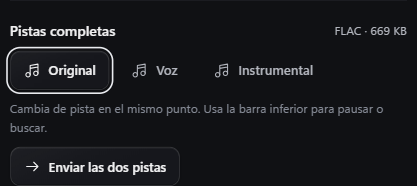
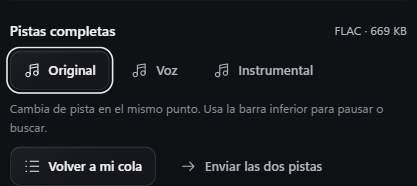
Keep queue during stem comparison

diff --git a/src/audio-player.ts b/src/audio-player.ts
@@ -3,7 +3,7 @@ import { detailsFor } from "./library-features";
 import type { AudioPlaylist, LocalTrack } from "./library-types";
 import { createMiniPlayer, hasPlayerArtwork, playerArtist } from "./mini-player";
 import type { createSceneControls } from "./music-scene-controls";
-import { audiobookResumePosition, chapterAt, isPlayable, playbackRates, readPlayback, resumePosition, savePlayback } from "./playback-preferences";
+import { audiobookResumePosition, chapterAt, isPlayable, playbackRates, readPlayback, resumePosition, savePlayback, type PlaybackQueue } from "./playback-preferences";
 import { connectPlaybackSignal } from "./playback-signal";
 import { createPlaybackStage, type StageState } from "./playback-stage";
 import { durationLabel } from "./presentation";
@@ -36,6 +36,15 @@ interface Hooks {
   t: Copy;
 }
 
+interface Comparison {
+  queue: PlaybackQueue | null;
+  time: number;
+  playing: boolean;
+  sleep: string;
+  sleepUntil: number;
+  stopAt: number;
+}
+
 export function createAudioPlayer(hooks: Hooks) {
   const { t } = hooks;
   const stored = readPlayback();
@@ -61,6 +70,7 @@ export function createAudioPlayer(hooks: Hooks) {
   let order: number[] = [];
   let cursor = -1;
   let resumeAudioId: string | undefined;
+  let comparison: Comparison | undefined;
   let expectedSource = "";
   let audioSelection: number | null = null;
   let audioChange: { controller: AbortController; play: boolean } | undefined;
@@ -111,7 +121,11 @@ export function createAudioPlayer(hooks: Hooks) {
   }
 
   function saveSession() {
-    savePlayback(preferences, cursor >= 0 ? { tracks, order, cursor, resumeAudioId } : null);
+    savePlayback(preferences, comparison ? comparison.queue : currentQueue());
+  }
+
+  function currentQueue(): PlaybackQueue | null {
+    return cursor >= 0 ? { tracks, order, cursor, resumeAudioId } : null;
   }
 
   function showScenes() {
@@ -290,7 +304,7 @@ export function createAudioPlayer(hooks: Hooks) {
 
   function persist() {
     const item = current();
-    if (!media || !item || !matchesSource() || media.readyState === 0 || resumeChoice || pendingSeek !== null || !Number.isFinite(media.currentTime)) return;
+    if (comparison || !media || !item || !matchesSource() || media.readyState === 0 || resumeChoice || pendingSeek !== null || !Number.isFinite(media.currentTime)) return;
     const position = !media.ended ? media.currentTime
       : isAudiobook(item) ? item.duration ?? media.currentTime : 0;
     const details = detailsFor(item);
@@ -679,6 +693,7 @@ export function createAudioPlayer(hooks: Hooks) {
     const same = currentId() === item.id && Boolean(expectedSource) && !issue;
     trackWheel?.dismiss();
     persist();
+    comparison = undefined;
     tracks = ids.filter(value => isPlayable(hooks.item(value))).slice(0, 2000);
     resumeAudioId = resumeShortAudio && item.kind === "audio" ? item.id : undefined;
     cursor = -1;
@@ -695,7 +710,9 @@ export function createAudioPlayer(hooks: Hooks) {
   }
 
   function add(id: string) {
-    if (!isPlayable(hooks.item(id)) || tracks.length >= 2000) return;
+    if (!isPlayable(hooks.item(id))) return;
+    restoreComparison();
+    if (tracks.length >= 2000) return;
     trackWheel?.dismiss();
     tracks.push(id);
     order.push(tracks.length - 1);
@@ -704,6 +721,7 @@ export function createAudioPlayer(hooks: Hooks) {
   }
 
   function playNext(ids: Iterable<string>) {
+    restoreComparison();
     const playing = current();
     if (playing && isAudiobook(playing)) return 0;
     const upcoming = order.slice(cursor + 1);
@@ -753,6 +771,7 @@ export function createAudioPlayer(hooks: Hooks) {
   }
 
   function close() {
+    if (comparison) { restoreComparison(false); return; }
     cancelAudioChange();
     persist();
     media?.pause();
@@ -965,9 +984,11 @@ export function createAudioPlayer(hooks: Hooks) {
   function playAt(id: string, time: number, resumeShortAudio = false): boolean {
     const item = hooks.item(id);
     if (!isPlayable(item)) return false;
+    const comparing = Boolean(comparison);
     const resumeId = resumeShortAudio && item.kind === "audio" ? id : undefined;
-    if (id !== currentId() || issue) {
+    if (id !== currentId() || issue || comparing) {
       persist();
+      comparison = undefined;
       tracks = [id]; order = [0]; cursor = -1; resumeAudioId = resumeId;
       activate(0, false, false);
     } else if (item.kind === "video") showStage();
@@ -993,7 +1014,15 @@ export function createAudioPlayer(hooks: Hooks) {
     const switching = group.includes(active) && !issue;
     const position = switching ? pendingSeek ?? media.currentTime : 0;
     const autoplay = !switching || !media.paused;
-    persist();
+    if (!comparison) {
+      persist();
+      comparison = {
+        queue: currentQueue(), time: pendingSeek ?? (resumeChoice || media.currentTime),
+        playing: wheelPlaying(), sleep, sleepUntil, stopAt,
+      };
+      clearTimer();
+      sleep = "off";
+    }
     tracks = [id];
     order = [0];
     cursor = -1;
@@ -1001,6 +1030,36 @@ export function createAudioPlayer(hooks: Hooks) {
     activate(0, false, false, false);
     seek(position);
     if (autoplay) void playMedia();
+  }
+
+  function restoreComparison(resume = true) {
+    const previous = comparison;
+    if (!previous) return;
+    comparison = undefined;
+    clearTimer();
+    sleep = "off";
+    const queue = previous.queue;
+    if (!queue) { close(); return; }
+    const available = (index: number) => isPlayable(hooks.item(queue.tracks[index]));
+    const sameTrack = available(queue.order[queue.cursor]);
+    const target = sameTrack ? queue.cursor : queue.order.findIndex(available);
+    if (target < 0) { close(); return; }
+    tracks = queue.tracks;
+    order = queue.order;
+    cursor = -1;
+    resumeAudioId = queue.resumeAudioId;
+    activate(target, false, false, false);
+    if (!sameTrack) return;
+    seek(previous.time);
+    const expired = previous.sleepUntil > 0 && previous.sleepUntil <= Date.now();
+    if (!expired && previous.sleep !== "off") {
+      sleep = previous.sleep;
+      stopAt = previous.stopAt;
+      sleepUntil = previous.sleepUntil;
+      if (sleepUntil) timer = setTimeout(sleepNow, sleepUntil - Date.now());
+      render();
+    }
+    if (resume && previous.playing && !expired) void playMedia();
   }
 
   function shuffleUpcoming() {
@@ -1102,7 +1161,7 @@ export function createAudioPlayer(hooks: Hooks) {
     return true;
   }
 
-  return { mount, render, restore, play, playAt, playChapter, compareTrack, pause: () => media?.pause(), add, playNext, remove, input, click, key, current, nextEntries, seek, persist, detachMini, openFloatingMini,
+  return { mount, render, restore, play, playAt, playChapter, compareTrack, restoreComparison, comparison: () => comparison?.queue ? "queue" : comparison ? "empty" : undefined, pause: () => media?.pause(), add, playNext, remove, input, click, key, current, nextEntries, seek, persist, detachMini, openFloatingMini,
     nativeMiniRestored: (dock: boolean) => { setDetached(false); if (dock) dockMini(); },
     syncDesktopWheel, wheelAction, isExpanded: () => expanded, isDetached: () => detached,
     timeFor: (id: string) => id === currentId() && matchesSource() && media?.readyState ? media.currentTime : undefined,

diff --git a/src/stems-ui.ts b/src/stems-ui.ts
@@ -13,6 +13,8 @@ interface Hooks {
   notify(message: string): void;
   components(): void;
   compare(id: string, group: readonly string[]): void;
+  comparison(): "queue" | "empty" | undefined;
+  restoreComparison(): void;
   playingId(): string | undefined;
   pausePlayback(): void;
   share(ids: string[]): void;
@@ -85,6 +87,7 @@ export function createStemsTool(hooks: Hooks) {
     const listen = (id: string, label: string) => action("stems-compare", label, "audio", current === id ? "secondary" : "quiet",
       `id="stems-listen-${h(id)}" data-id="${h(id)}" aria-pressed="${current === id}"`);
     const source = selected();
+    const comparison = hooks.comparison();
     const [original, vocals, instrumental] = labels();
     return `<section class="asset-review stems-output" aria-labelledby="stems-output-title">
       <div class="section-heading"><h3 id="stems-output-title">${t("Pistas completas", "Full-length stems")}</h3><span>FLAC · ${bytesLabel(files.reduce((total, { item }) => total + item.size, 0))}</span></div>
@@ -93,8 +96,12 @@ export function createStemsTool(hooks: Hooks) {
       </div>
       <p class="field-note">${t("Cambia de pista en el mismo punto. Usa la barra inferior para pausar o buscar.", "Switch tracks at the same position. Use the player below to pause or seek.")}</p>
       ${files.length === 1 ? `<p class="field-note">${t("Solo queda una pista disponible de esta exportación.", "One stem from this export is available.")}</p>` : ""}
-      <div class="button-group stems-tracks">${action("stems-share", files.length === 2 ? t("Enviar las dos pistas", "Send both stems")
-        : t("Enviar pista disponible", "Send available stem"), "arrow", "secondary")}</div>
+      <div class="button-group stems-tracks stems-result-actions">
+        ${comparison ? action("stems-restore", comparison === "queue" ? t("Volver a mi cola", "Return to my queue")
+          : t("Terminar comparación", "End comparison"), comparison === "queue" ? "list" : "close", "secondary") : ""}
+        ${action("stems-share", files.length === 2 ? t("Enviar las dos pistas", "Send both stems")
+          : t("Enviar pista disponible", "Send available stem"), "arrow", comparison ? "quiet" : "secondary")}
+      </div>
     </section>`;
   }
 
@@ -169,6 +176,7 @@ export function createStemsTool(hooks: Hooks) {
     if (requestId) void hooks.command("cancel_file_source_inspection", { requestId }).catch(() => {});
     busy = false; requestId = 0; error = "";
     discard();
+    hooks.restoreComparison();
   }
 
   function trackButtons() {
@@ -305,6 +313,11 @@ export function createStemsTool(hooks: Hooks) {
         }
         return true;
       }
+      case "stems-restore":
+        stop();
+        hooks.restoreComparison();
+        document.getElementById(`stems-listen-${libraryId}`)?.focus({ preventScroll: true });
+        return true;
       case "stems-share": {
         const ids = publishedSet()?.map(({ item }) => item.id);
         if (ids?.length) hooks.share(ids);
@@ -330,6 +343,7 @@ export function createStemsTool(hooks: Hooks) {
       if (!preview && !error) return true;
     } else if (target.id === "stems-source" && target instanceof HTMLSelectElement) {
       libraryId = target.value; start = 0;
+      hooks.restoreComparison();
     } else return false;
     discard(); error = ""; hooks.render();
     return true;

diff --git a/src/main.ts b/src/main.ts
@@ -128,7 +128,8 @@ const stickerTool=createStickerTool({command,snapshot:()=>snapshot,refresh,rende
 const upscaleTool=createUpscaleTool({command,snapshot:()=>snapshot,refresh,render:renderCurrent,notify,t,components:()=>{preferences.section='engines';navigate('settings');}});
 const backgroundTool=createBackgroundTool({command,snapshot:()=>snapshot,refresh,render:renderCurrent,notify,t,components:()=>{preferences.section='engines';navigate('settings');}});
 const stemsTool=createStemsTool({command,snapshot:()=>snapshot,refresh,render:renderCurrent,notify,t,components:()=>{preferences.section='engines';navigate('settings');},
-  compare:(id,group)=>audioPlayer.compareTrack(id,group),playingId:()=>audioPlayer.current()?.id,pausePlayback:()=>audioPlayer.pause(),share:ids=>deviceShare.open({ids})});
+  compare:(id,group)=>audioPlayer.compareTrack(id,group),comparison:()=>audioPlayer.comparison(),restoreComparison:()=>audioPlayer.restoreComparison(),
+  playingId:()=>audioPlayer.current()?.id,pausePlayback:()=>audioPlayer.pause(),share:ids=>deviceShare.open({ids})});
 const translationTool=createTranslationTool({command,snapshot:()=>snapshot,refresh,render:renderCurrent,notify,t,
   openTool:mode=>openToolDestination(()=>openLocalTool(mode),"subtitles"),
   components:()=>{preferences.section='engines';navigate('settings');}});
@@ -781,6 +782,7 @@ async function handleAction(action: string, button: HTMLButtonElement): Promise<
   const id=button.dataset.id??"";
   if(action==='open-palette'){palette.open();return;}
   if(action==='tool-catalog-open'){
+    if(localToolModule==='stems')stemsTool.leave();
     showToolCatalog=true;toolCategory="";toolSearch='';renderCurrent();required('#main').scrollTop=0;
     document.getElementById('tool-search')?.focus();return;
   }

diff --git a/src/stems.css b/src/stems.css
@@ -34,3 +34,4 @@
 .stems-output { display: grid; gap: 10px; margin-top: 16px; }
 .stems-output .section-heading { gap: 8px; flex-wrap: wrap; }
 .stems-output .section-heading h3, .stems-output > p { margin: 0; }
+.stems-result-actions { gap: 6px 10px; }

diff --git a/docs/STEMS.md b/docs/STEMS.md
@@ -12,6 +12,8 @@ La separación es una estimación. Puede dejar restos de voz en el instrumental 
 
 Selecciona el archivo original en **Separar pistas** para ver su última exportación. Alterna entre Original, Voz e Instrumental sin perder la posición ni el estado de pausa. Usa la barra inferior para pausar o buscar en la pista completa. Las pistas exportadas siguen disponibles aunque desinstales el modelo.
 
+Si ya tenías una cola de reproducción, **Volver a mi cola** recupera la pista que escuchabas, su posición y el estado de pausa. Salir de la herramienta también recupera la cola. Si entraste con el reproductor vacío, **Terminar comparación** detiene la escucha.
+
 **Enviar las dos pistas** abre la revisión de KDE Connect con los dos FLAC. Si solo queda uno en Biblioteca, puedes enviar la pista disponible. Revisa la selección y elige el dispositivo antes de confirmar.
 
 ## Instalación
@@ -29,5 +31,7 @@ El recorrido nativo de Windows verificó la instalación desde Ajustes, el cambi
 [Muestra en Herramientas](stems-preview.png)
 
 La prueba de resultados en WebView2 reproduce un MP4 y dos FLAC sintéticos de 21 segundos, cambia de pista en reproducción y en pausa, y verifica los dos archivos que recibe el simulador de KDE Connect después de confirmar.
+
+La misma prueba prepara dos canciones y verifica que la comparación conserva su orden en disco. Comprueba la recuperación de la primera canción en el segundo 7, en pausa con el botón y en reproducción al salir de Herramientas. También comprueba que se puede avanzar a la segunda canción y terminar una comparación iniciada con la cola vacía. El panel se revisó a 900 y 1180 px.
 
 [Pistas completas en Herramientas](stems-results.png)
